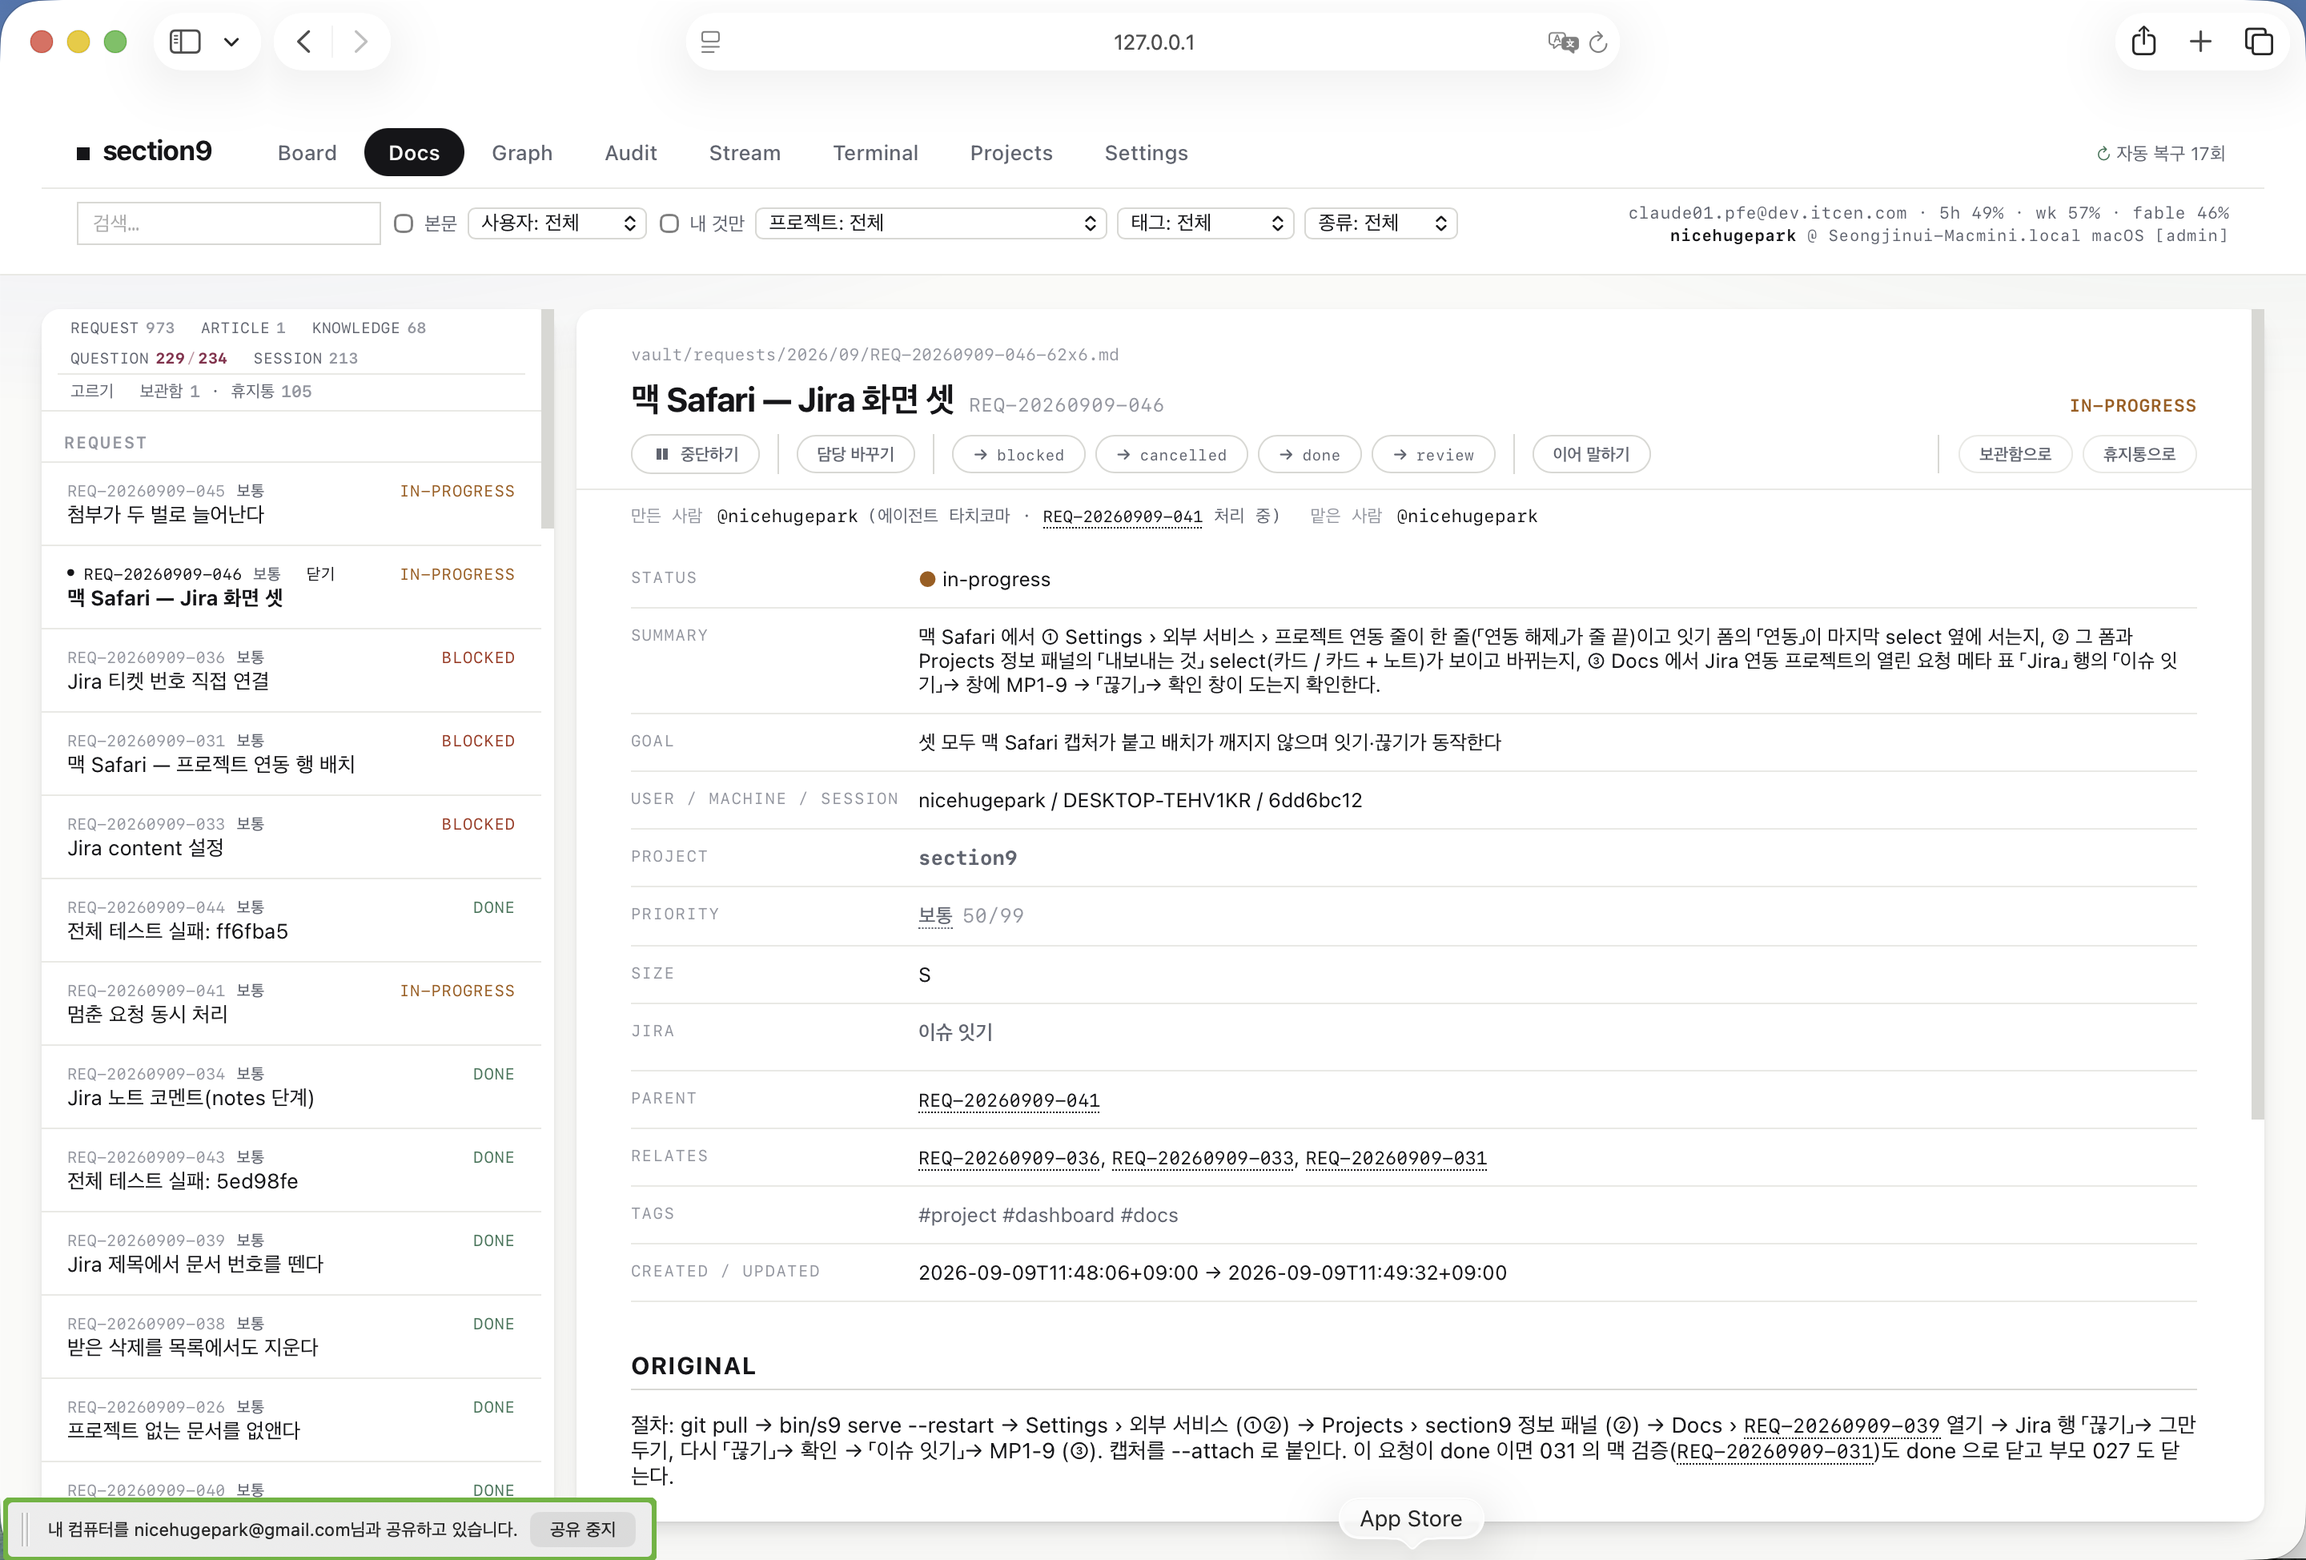
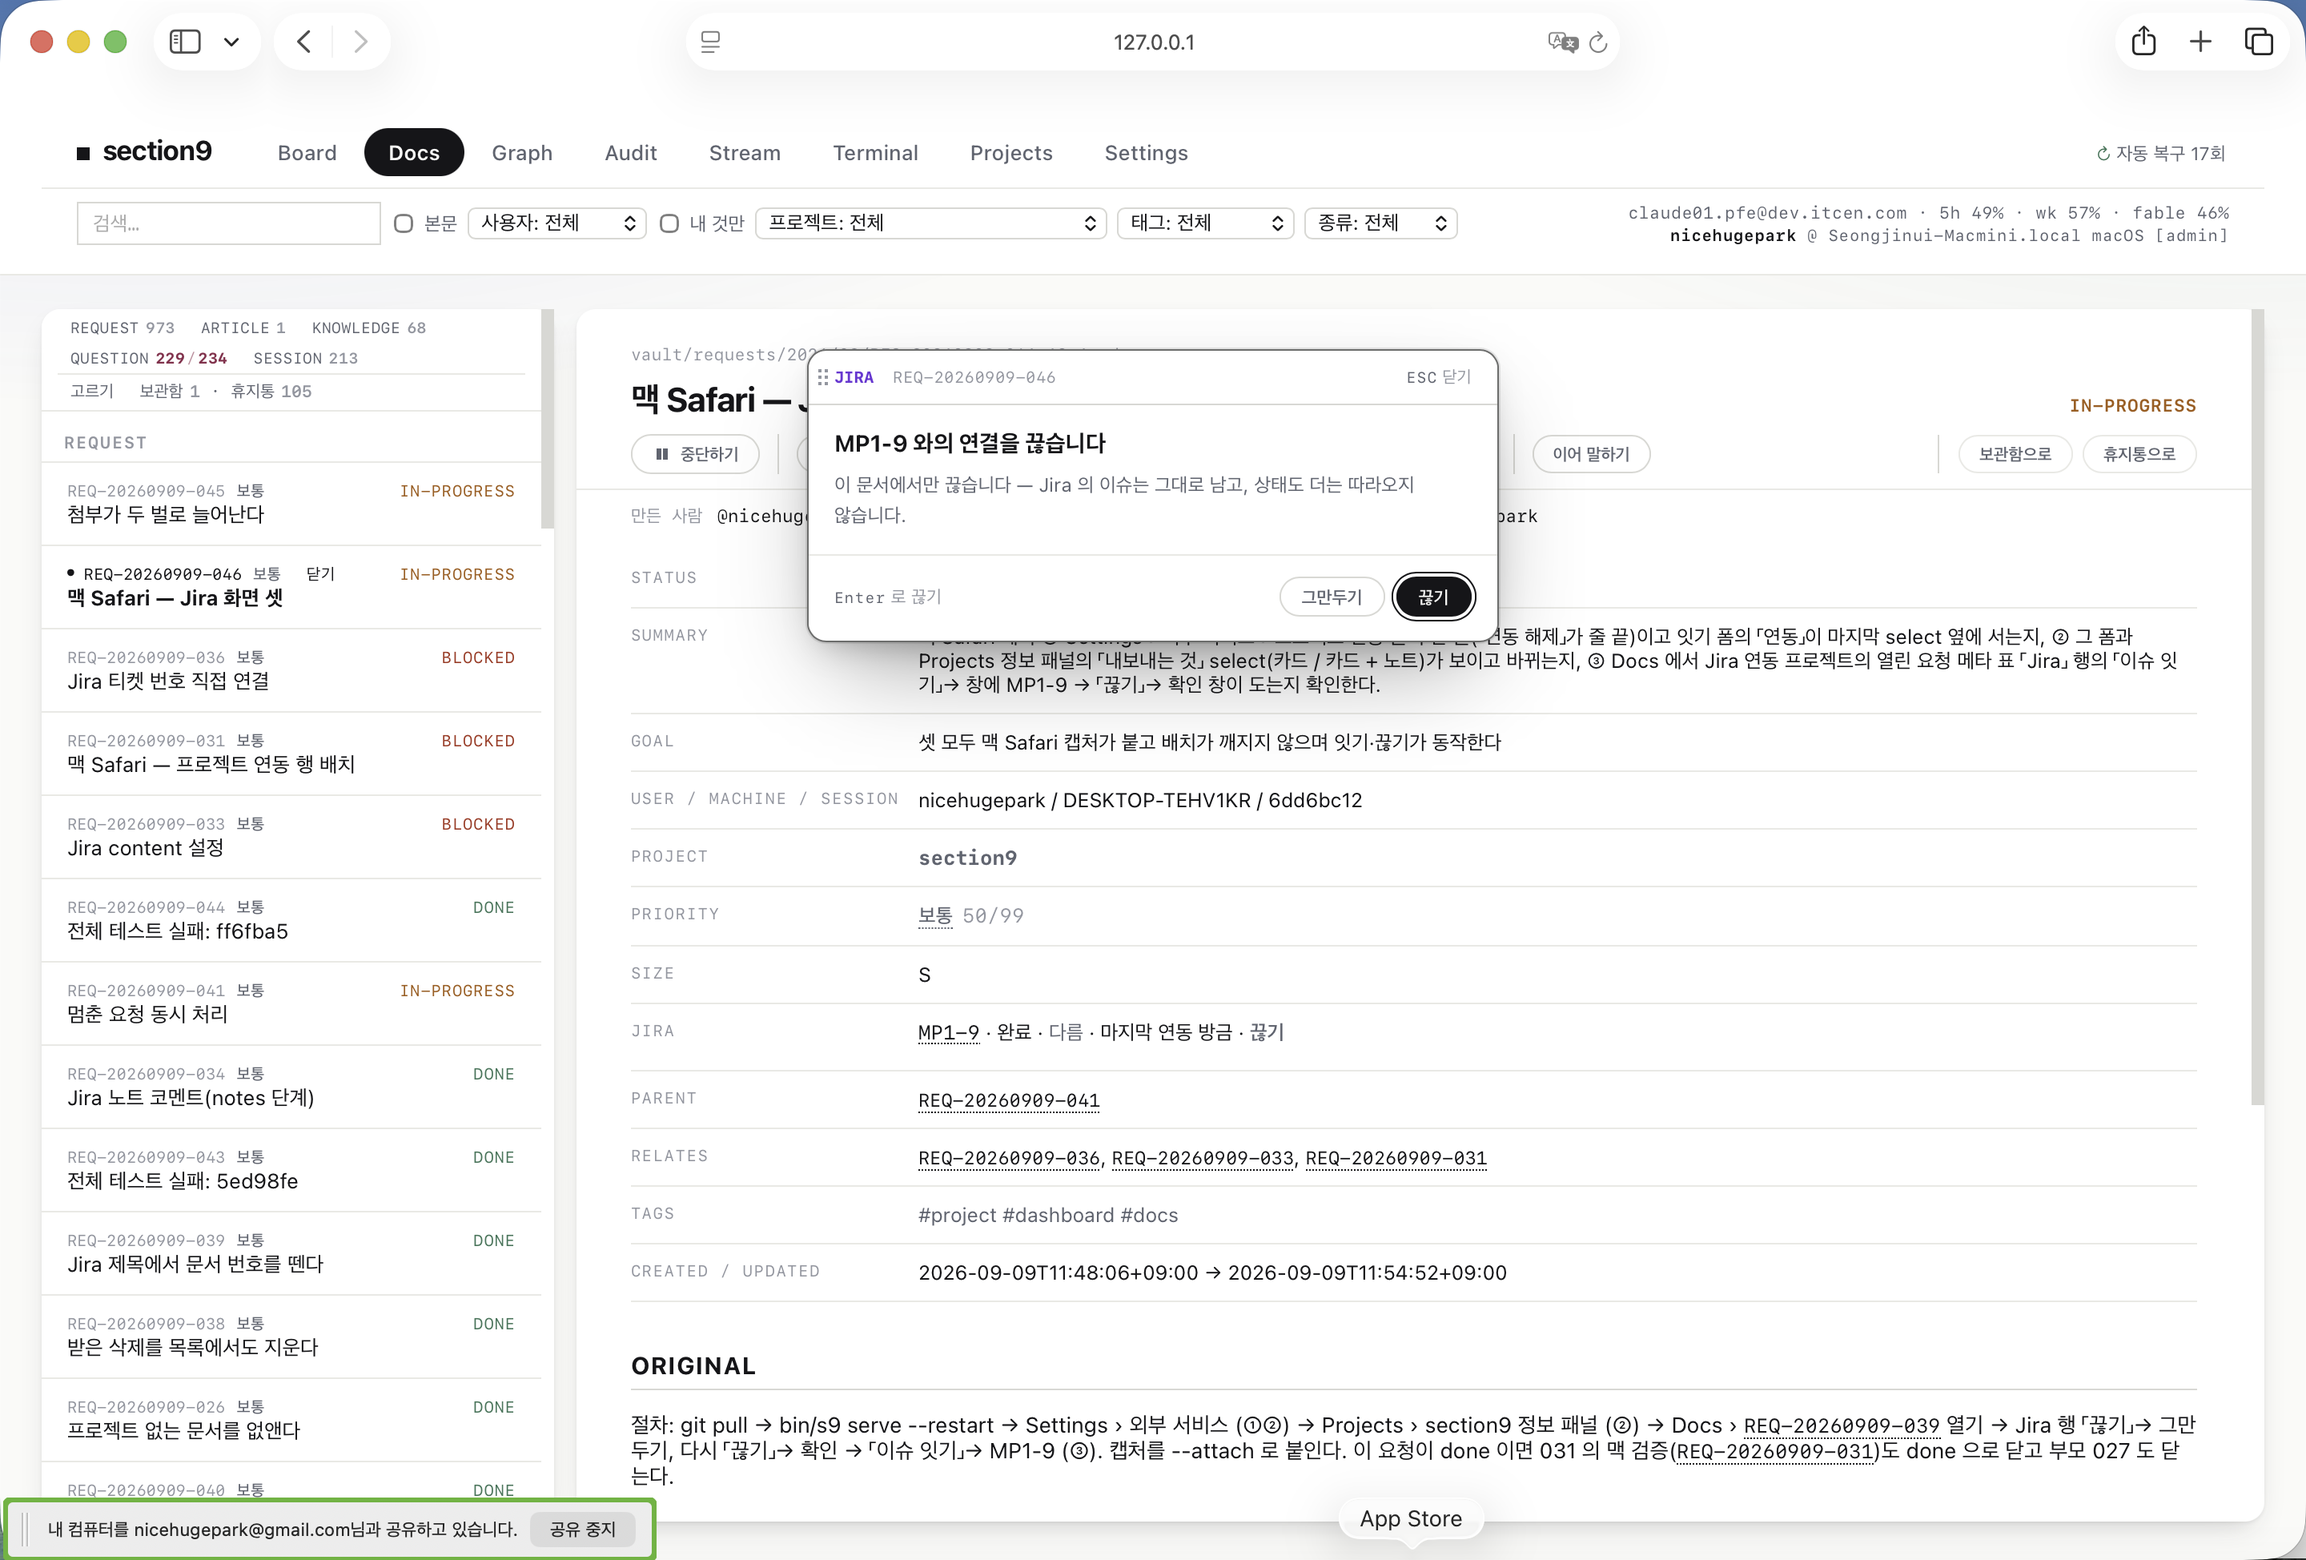
s9 sync: set REQ-20260909-046-62x6

diff --git a/vault/requests/2026/09/REQ-20260909-046-62x6.md b/vault/requests/2026/09/REQ-20260909-046-62x6.md
@@ -17,7 +17,7 @@ relates_why: {"REQ-20260909-036-62x6": "036 의 Docs 잇기/끊기 화면을 맥
 tags: ["project", "dashboard", "docs"]
 created: 2026-09-09T11:48:06+09:00
 status_since: 2026-09-09T11:49:32+09:00
-updated: 2026-09-09T11:54:52+09:00
+updated: 2026-09-09T11:55:50+09:00
 priority: 50
 creator: nicehugepark
 origin: derived
@@ -26,7 +26,7 @@ origin_req: REQ-20260909-041-62x6
 project_source: explicit
 needs_os: macOS
 lease: {"user": "nicehugepark", "machine": "Seongjinui-Macmini.local", "session": "6dd6bc12", "since": "2026-09-09T11:49:33+09:00", "renewed": "2026-09-09T11:49:33+09:00"}
-jira: {"site": "https://nicehugepark.atlassian.net", "key": "MP1-9", "url": "https://nicehugepark.atlassian.net/browse/MP1-9", "status": "완료", "status_category": "done", "synced_at": "2026-09-09T11:54:52+09:00", "synced_by": "nicehugepark", "pending": "", "last_error": "", "actor": "nicehugepark", "via": "link"}
+jira: {}
 ---
 
 ## Original
@@ -39,3 +39,4 @@ jira: {"site": "https://nicehugepark.atlassian.net", "key": "MP1-9", "url": "htt
 - 2026-09-09T11:48:06+09:00 created by nicehugepark (status: open)
 - 2026-09-09T11:49:32+09:00 status: open -> in-progress (by nicehugepark) — 맥미니 리드 세션 6dd6bc12 가 집었다 — 실제 Safari 로 본다
 - 2026-09-09T11:54:52+09:00 jira: MP1-9 연결 (by nicehugepark via dashboard)
+- 2026-09-09T11:55:50+09:00 jira: MP1-9 연결 끊음 (by nicehugepark via dashboard)
